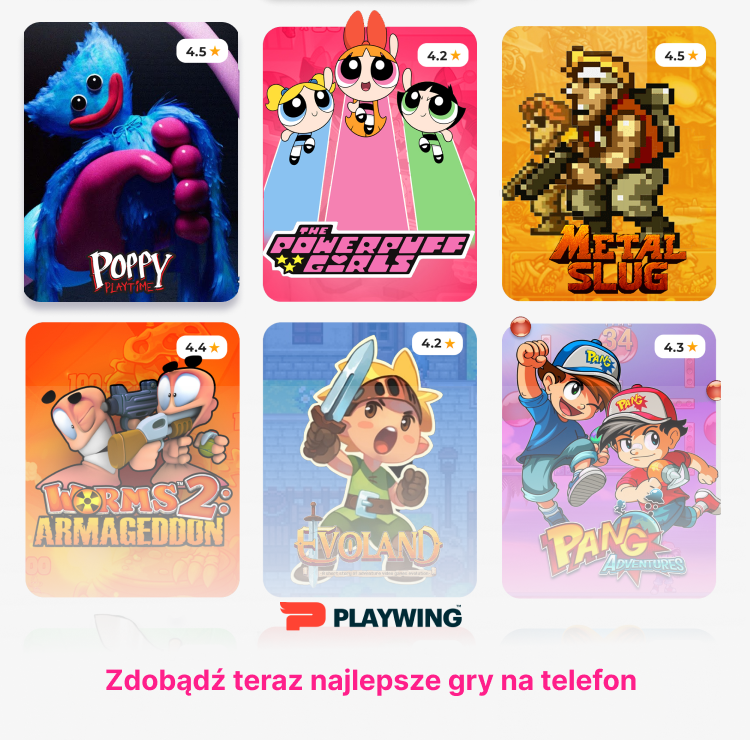
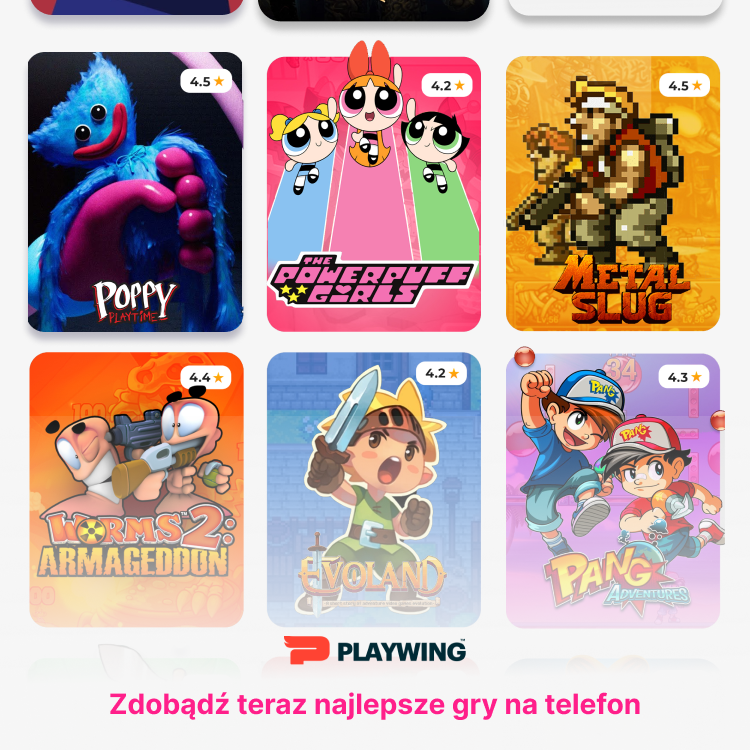
fixed

diff --git a/src/pin.html b/src/pin.html
@@ -24,7 +24,7 @@
                             <div class="checkbox d-flex mb-3">
                                 <input class="form-check-input" type="checkbox" id="invalidCheckOffers" required>
 
-                                <label class="form-check-label p-0 ms-1" for="invalidCheckOffers">
+                                <label class="form-check-label lh-sm p-0 ms-1" for="invalidCheckOffers">
                                     Akceptuję <a href="external/terms.html" class="btn-link">Regulamin Playwing</a> oraz regulamin <span class="d-block d-sm-inline"><a href="index.html" class="btn-link">Zamów zT-Mobile.</a>  Potwierdzam, że jestem</span> świadomy utraty prawa odstąpienia od umowy.
                             </label>
                             </div>

diff --git a/src/style/main.scss b/src/style/main.scss
@@ -14,7 +14,22 @@
     }
     .banner {
         position: relative;
-        height: 103vw;
+        height: 92vw;
+        &.banner-md {
+            height: 100vw;
+            @media (min-width: 576px) {
+                height: 87vw;
+            }
+            @media (min-width: 768px) {
+                height: 680px;
+            }
+            @media (min-width: 992px) {
+                height: 480px;
+            }
+            @media (min-width: 1200px) {
+                height: 580px;
+            }
+        }
         @media (min-width: 576px) {
             height: 87vw;
         }

diff --git a/src/index.html b/src/index.html
@@ -5,10 +5,10 @@
 <body class="index">
     <main class="main">
         <!-- Main section -->
-        <section class="banner">
+        <section class="banner banner-md">
             <img src="img/hero-bg.png" alt="Banner image" class="banner-bg">
         </section>
-        <section class="hero pb-4">
+        <section class="hero pt-2 pb-4">
             <div class="container">
                 <div class="row justify-content-center">
                     <div class="col-lg-7 col-12">

diff --git a/src/otp.html b/src/otp.html
@@ -5,10 +5,10 @@
 <body class="index">
     <main class="main">
         <!-- Main section -->
-        <section class="banner">
+        <section class="banner banner-md">
             <img src="img/hero-bg.png" alt="Banner image" class="banner-bg">
         </section>
-        <section class="hero pb-4">
+        <section class="hero pt-2 pb-4">
             <div class="container">
                 <div class="row justify-content-center">
                     <div class="col-lg-7 col-12">

diff --git a/src/success.html b/src/success.html
@@ -2,7 +2,7 @@
 <html lang="cz">
 //= html_partials/head.html
 
-<body class="index">
+<body class="index bg-white">
     <main class="main">
         <!-- Main section -->
         <section class="banner">
